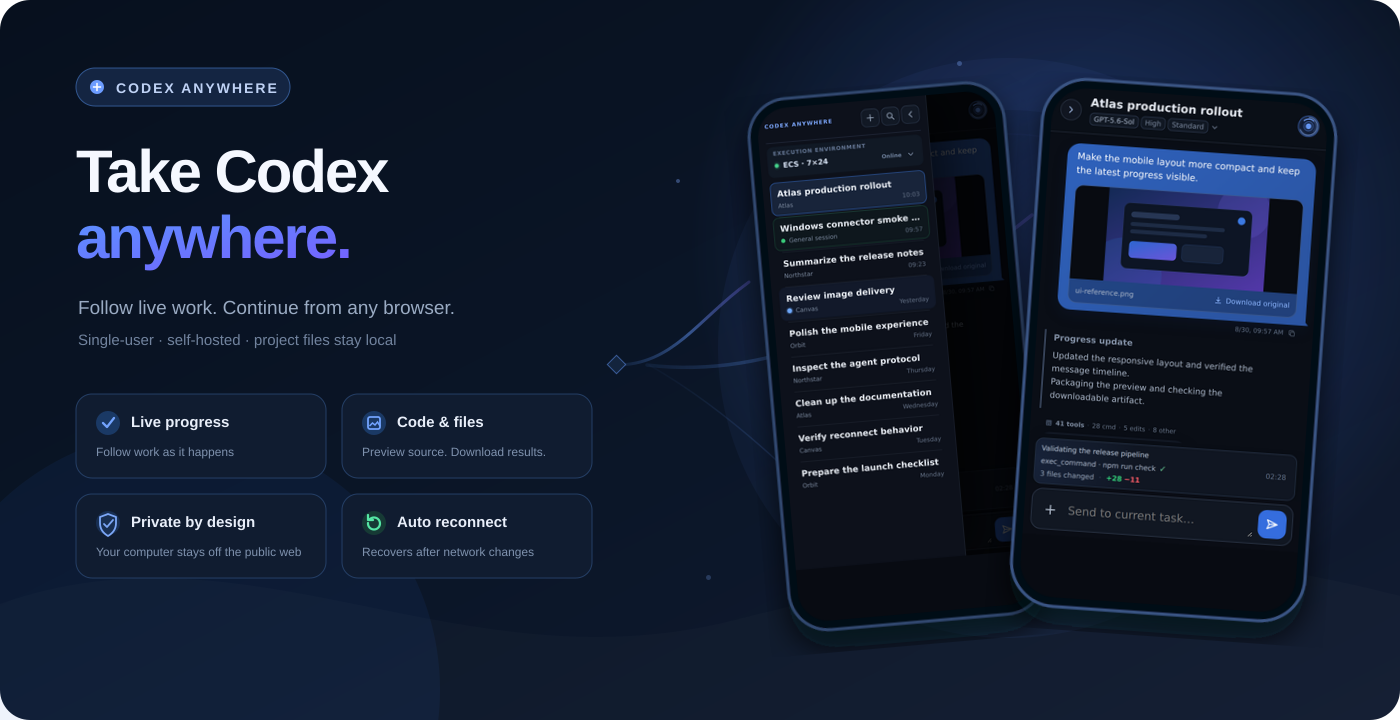
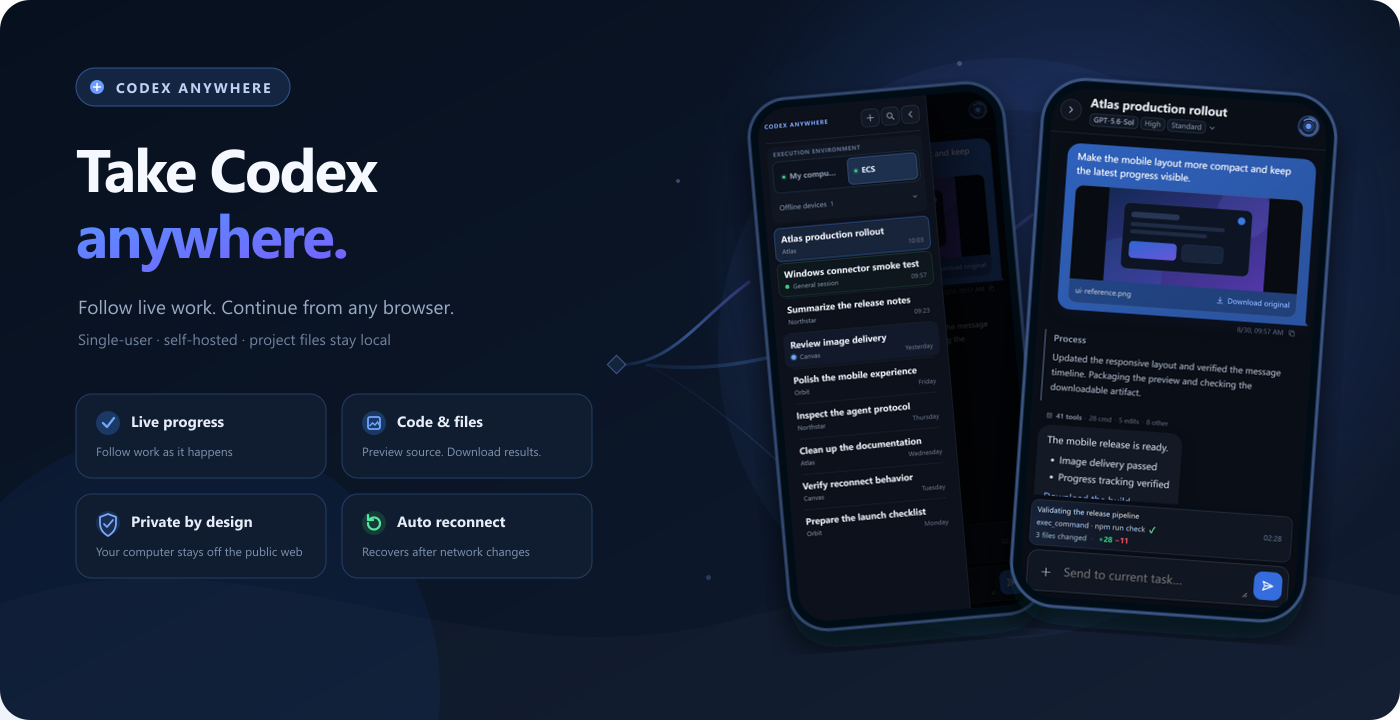
Show direct environment switching for up to two online devices

diff --git a/test/execution-environments.test.ts b/test/execution-environments.test.ts
@@ -1,6 +1,7 @@
 import assert from 'node:assert/strict';
 import test from 'node:test';
-import { createElement } from 'react';
+import { act, createElement } from 'react';
+import { createRoot } from 'react-dom/client';
 import { renderToStaticMarkup } from 'react-dom/server';
 import { parseHTML } from 'linkedom';
 import { EnvironmentSwitcher } from '../web/src/environment-switcher.js';
@@ -41,14 +42,68 @@ test('two environments have direct controls with stable positions and an accessi
   assert.equal(document.querySelector('[aria-haspopup]'), null);
 });
 
-test('larger environment inventories retain an accessible selector for every route', () => {
+test('two online devices stay one-click choices despite additional offline devices', () => {
   const { document } = parseHTML(renderToStaticMarkup(createElement(EnvironmentSwitcher, {
-    value: 'lab', environmentIds: ['ecs', 'personal-pc', 'lab'], onlineEnvironmentIds: ['lab'], onChange: () => {},
+    value: 'lab', environmentIds: ['old-pc', 'ecs', 'personal-pc', 'lab'], onlineEnvironmentIds: ['lab', 'ecs'], onChange: () => {},
+  })));
+  assert.deepEqual([...document.querySelectorAll('.environment-shortcuts strong')].map(node => node.textContent), ['ECS', 'lab']);
+  assert.equal(document.querySelector('[aria-haspopup]'), null);
+  assert.equal(document.querySelector('.environment-offline')!.hasAttribute('open'), false);
+  assert.equal(document.querySelectorAll('.environment-offline-list button').length, 2);
+  assert.equal(document.querySelector('.environment-offline-count')!.textContent, '2');
+});
+
+test('more than two online environments retain an accessible selector', () => {
+  const { document } = parseHTML(renderToStaticMarkup(createElement(EnvironmentSwitcher, {
+    value: 'lab', environmentIds: ['ecs', 'personal-pc', 'lab'], onlineEnvironmentIds: ['lab', 'ecs', 'personal-pc'], onChange: () => {},
   })));
   const trigger = document.querySelector('button[aria-haspopup="listbox"]');
   assert(trigger);
   assert.match(trigger.textContent || '', /lab/);
   assert.equal(trigger.getAttribute('aria-label'), '切换执行环境');
+});
+
+test('presence changes preserve the selected route and direct clicks target only their own device', async () => {
+  const keys = ['window', 'document', 'IS_REACT_ACT_ENVIRONMENT'] as const;
+  const saved = keys.map(key => [key, Object.getOwnPropertyDescriptor(globalThis, key)] as const);
+  const { window, document } = parseHTML('<html><body><div id="root"></div></body></html>');
+  for (const [key, value] of [['window', window], ['document', document], ['IS_REACT_ACT_ENVIRONMENT', true]] as const) {
+    Object.defineProperty(globalThis, key, { configurable: true, value });
+  }
+  const root = createRoot(document.getElementById('root')!);
+  const calls: string[] = [];
+  const render = (onlineEnvironmentIds: string[], value = 'lab') => act(async () => root.render(createElement(EnvironmentSwitcher, {
+    value, environmentIds: ['ecs', 'lab', 'personal-pc'], onlineEnvironmentIds, onChange: id => calls.push(id),
+  })));
+  const click = (selector: string) => act(async () => {
+    document.querySelector(selector)!.dispatchEvent(new window.Event('click', { bubbles: true }));
+  });
+  try {
+    await render(['lab', 'ecs', 'personal-pc']);
+    assert.ok(document.querySelector('[aria-haspopup="listbox"]'));
+    await render(['lab', 'ecs']);
+    await click('.environment-shortcuts button[aria-pressed="true"]');
+    assert.deepEqual(calls, [], 'clicking the current device does not reconnect');
+    await click('.environment-shortcuts button[aria-pressed="false"]');
+    assert.deepEqual(calls, ['ecs']);
+    await render(['ecs']);
+    assert.equal(document.querySelector('.environment-offline')!.hasAttribute('open'), true);
+    assert.equal(document.querySelector('.environment-offline-list [aria-pressed="true"] strong')!.textContent, 'lab');
+    await click('.environment-offline-list button[aria-pressed="false"]');
+    assert.deepEqual(calls, ['ecs', 'personal-pc']);
+    await render(['lab', 'ecs']);
+    assert.equal(document.querySelector('.environment-shortcuts [aria-pressed="true"] strong')!.textContent, 'lab');
+    assert.equal(document.querySelector('.environment-offline')!.hasAttribute('open'), false);
+    await render(['lab', 'ecs', 'personal-pc']);
+    assert.match(document.querySelector('[aria-haspopup="listbox"]')!.textContent!, /lab/);
+    assert.deepEqual(calls, ['ecs', 'personal-pc'], 'presence changes never switch devices automatically');
+  } finally {
+    await act(async () => root.unmount());
+    for (const [key, descriptor] of saved) {
+      if (descriptor) Object.defineProperty(globalThis, key, descriptor);
+      else Reflect.deleteProperty(globalThis, key);
+    }
+  }
 });
 
 test('execution environment inventory is normalized without injecting a phantom PC', () => {
@@ -90,7 +145,12 @@ test('approved offline devices and custom names survive inventories larger than 
   const { document } = parseHTML(renderToStaticMarkup(createElement(EnvironmentSwitcher, {
     value: 'node-39', environmentIds: inventory.ids, labels: inventory.labels, onlineEnvironmentIds: [], onChange: () => {},
   })));
-  assert.match(document.querySelector('button')!.textContent!, /电脑 39/);
+  assert.match(document.querySelector('.environment-empty')!.textContent!, /暂无在线设备/);
+  assert.equal(document.querySelector('[aria-haspopup]'), null);
+  assert.equal(document.querySelector('.environment-offline')!.hasAttribute('open'), true);
+  assert.equal(document.querySelectorAll('.environment-offline-list button').length, 40);
+  assert.match(document.querySelector('.environment-offline summary')!.textContent!, /电脑 39/);
+  assert.match(document.querySelector('[aria-pressed="true"]')!.textContent!, /电脑 39/);
 });
 test('connector-scoped storage migrates the legacy local-computer value only', () => {
   const storage = new MemoryStorage();

diff --git a/web/src/environment-switcher.tsx b/web/src/environment-switcher.tsx
@@ -15,33 +15,54 @@ export function EnvironmentSwitcher({ value, environmentIds, onlineEnvironmentId
   const displayName = (id: string) => environmentDisplayName(id, labels);
   const shortName = (id: string) => environmentShortName(id, labels);
   const online = onlineEnvironmentIds.includes(value);
+  const [offlineExpanded, setOfflineExpanded] = useState(!online);
+  useEffect(() => { setOfflineExpanded(!online); }, [value, online]);
   const options = environmentIds.map(id => ({
     value: id, label: displayName(id),
     description: `${onlineEnvironmentIds.includes(id) ? t('在线', 'Online') : t('离线', 'Offline')} · ${id}`,
     leading: <span className={`environment-status-dot ${onlineEnvironmentIds.includes(id) ? 'online' : 'offline'}`} aria-hidden="true" />,
   }));
   // Keep a stable visual position while connectivity and selection change.
-  const shortcuts = [...environmentIds].sort((a, b) =>
+  const sortedIds = [...environmentIds].sort((a, b) =>
     Number(b === 'personal-pc') - Number(a === 'personal-pc') || a.localeCompare(b));
-  return <div className={`environment-picker${environmentIds.length <= 2 ? ' environment-picker-direct' : ''}`}>
+  const onlineIds = sortedIds.filter(id => onlineEnvironmentIds.includes(id));
+  const direct = onlineIds.length <= 2;
+  // Small inventories keep their positions even when one device disconnects.
+  const shortcuts = environmentIds.length <= 2 ? sortedIds : onlineIds;
+  const offlineIds = sortedIds.filter(id => !shortcuts.includes(id));
+  const renderShortcut = (id: string) => {
+    const available = onlineEnvironmentIds.includes(id);
+    const status = available ? t('在线', 'Online') : t('离线', 'Offline');
+    return <button type="button" key={id} className="environment-shortcut" aria-pressed={value === id}
+      title={`${displayName(id)} · ${status} · ${id}`}
+      onClick={() => { if (id !== value) onChange(id); }}>
+      <span className="environment-shortcut-status"><span className={`environment-status-dot ${available ? 'online' : 'offline'}`} aria-hidden="true" /><span className="visually-hidden">{status}</span></span>
+      <strong>{shortName(id)}</strong>
+    </button>;
+  };
+  return <div className={`environment-picker${direct ? ' environment-picker-direct' : ''}`}>
     <div className="environment-picker-heading">
       <span className="environment-picker-label">{t('执行环境', 'Execution environment')}</span>
       {onRename && environmentIds.includes(value) && <button type="button" className="environment-rename-trigger" disabled={saving}
         aria-label={t('重命名设备', 'Rename device')} title={t('重命名设备', 'Rename device')}
         onClick={() => { setName(displayName(value)); setError(''); setEditing(true); }}><SidebarIcon name="edit" /></button>}
     </div>
-    {environmentIds.length <= 2 ? <div className="environment-shortcuts" role="group" aria-label={t('切换执行环境', 'Switch execution environment')}>
-      {shortcuts.map(id => {
-        const available = onlineEnvironmentIds.includes(id);
-        const status = available ? t('在线', 'Online') : t('离线', 'Offline');
-        return <button type="button" key={id} className="environment-shortcut" aria-pressed={value === id}
-          title={`${displayName(id)} · ${status} · ${id}`}
-          onClick={() => { if (id !== value) onChange(id); }}>
-          <span className="environment-shortcut-status"><span className={`environment-status-dot ${available ? 'online' : 'offline'}`} aria-hidden="true" /><span className="visually-hidden">{status}</span></span>
-          <strong>{shortName(id)}</strong>
-        </button>;
-      })}
-    </div> : <CustomSelect className="environment-picker-select" value={value} options={options} onChange={onChange}
+    {direct ? <>
+      {shortcuts.length > 0 ? <div className="environment-shortcuts" role="group" aria-label={t('切换执行环境', 'Switch execution environment')}>
+        {shortcuts.map(renderShortcut)}
+      </div> : <p className="environment-empty">{t('暂无在线设备', 'No devices online')}</p>}
+      {offlineIds.length > 0 && <details className="environment-offline" open={offlineExpanded}
+        onToggle={event => setOfflineExpanded(event.currentTarget.open)}>
+        <summary>
+          <span>{t('离线设备', 'Offline devices')}<span className="environment-offline-count">{offlineIds.length}</span></span>
+          {!online && <strong title={displayName(value)}>{shortName(value)}</strong>}
+          <svg viewBox="0 0 16 16" aria-hidden="true"><path d="m4 6 4 4 4-4" /></svg>
+        </summary>
+        <div className="environment-offline-list" role="group" aria-label={t('离线设备', 'Offline devices')}>
+          {offlineIds.map(renderShortcut)}
+        </div>
+      </details>}
+    </> : <CustomSelect className="environment-picker-select" value={value} options={options} onChange={onChange}
       ariaLabel={t('切换执行环境', 'Switch execution environment')}
       triggerContent={<>
         <span className={`environment-status-dot ${online ? 'online' : 'offline'}`} aria-hidden="true" />

diff --git a/web/src/styles.scss b/web/src/styles.scss
@@ -242,9 +242,12 @@ input:not([type='range']):focus, textarea:focus { border-color: $focus !importan
   p { color: #efbb78; font-size: 12px; margin: 0; }
 }
 .environment-picker-direct { padding: 7px; gap: 6px; background: #101722; }
-.environment-shortcuts { display: grid; grid-auto-flow: column; grid-auto-columns: minmax(0, 1fr); gap: 5px; }
+.environment-shortcuts {
+  display: grid; grid-auto-flow: column; grid-auto-columns: minmax(0, 1fr); gap: 4px;
+  padding: 3px; border: 1px solid #263247; border-radius: 10px; background: #0c131e;
+}
 .environment-shortcut {
-  min-width: 0; height: 40px; min-height: 40px; display: flex; align-items: center; gap: 7px;
+  min-width: 0; height: 44px; min-height: 44px; display: flex; align-items: center; gap: 7px;
   padding: 0 10px; border: 1px solid transparent; border-radius: 8px;
   color: #8e9cb1; background: transparent; text-align: left;
   strong { @include truncate; font-size: 12px; font-weight: 600; line-height: 1.4; }
@@ -253,6 +256,26 @@ input:not([type='range']):focus, textarea:focus { border-color: $focus !importan
 }
 .environment-shortcut-status { display: flex; align-items: center; flex: 0 0 auto; }
 .environment-shortcut-status .environment-status-dot { width: 5px; height: 5px; flex: 0 0 5px; box-shadow: none; }
+.environment-empty { margin: 0; padding: 12px 6px; color: #8e9cb1; font-size: 12px; }
+.environment-offline {
+  min-width: 0;
+  summary {
+    min-width: 0; min-height: 36px; display: flex; align-items: center; gap: 8px;
+    padding: 0 6px; border-radius: 6px; color: #8797ae; cursor: pointer; list-style: none; font-size: 11px;
+    &::-webkit-details-marker { display: none; }
+    > span { display: flex; align-items: center; gap: 6px; flex: 0 0 auto; }
+    strong { @include truncate; min-width: 0; margin-left: auto; color: #c3d1e5; font-size: 11px; font-weight: 500; }
+    svg { flex: 0 0 12px; width: 12px; height: 12px; margin-left: auto; fill: none; stroke: currentColor; stroke-width: 1.5; }
+    strong + svg { margin-left: 0; }
+    @include interaction.hover { color: #cbd8eb; background: #192334; }
+  }
+  &[open] summary svg { transform: rotate(180deg); }
+}
+.environment-offline-count { color: #73839c; font-size: 10px; font-variant-numeric: tabular-nums; }
+.environment-offline-list {
+  display: grid; gap: 3px; max-height: 144px; overflow-y: auto; overscroll-behavior: contain;
+  padding: 3px; border-top: 1px solid #253044;
+}
 .environment-picker-select .custom-select-trigger {
   height: 25px;
   padding: 0 3px;

diff --git a/web/src/promo-main.tsx b/web/src/promo-main.tsx
@@ -181,7 +181,7 @@ function SessionDrawerPreview() {
             <button className="sidebar-tool mobile-only" type="button" tabIndex={-1}><SidebarIcon name="panel-close" /></button>
           </div>
         </div>
-        <EnvironmentSwitcher value="ecs" environmentIds={['personal-pc', 'ecs']}
+        <EnvironmentSwitcher value="ecs" environmentIds={['personal-pc', 'ecs', 'studio']}
           onlineEnvironmentIds={['personal-pc', 'ecs']} onChange={() => {}} />
         <nav className="session-list">
           {sessions.map((session) => (

diff --git a/docs/deployment.md b/docs/deployment.md
@@ -235,7 +235,7 @@ details on hover or tap; a session that has compacted should keep a compaction m
 For a long session, browse upward once and confirm that the older-history indicator appears, the current
 reading position does not jump, and a failed request offers retry. For a connector-owned test run, open
 the running-status strip and verify that Stop interrupts only that run. Repeat with an isolated Desktop turn: Web must use its confirmed turn ID. Active goals still require Desktop stop, since stopping one turn does not pause a goal.
-With one or two known environments, the sidebar shows direct buttons with separate selection and online states. More environments use the full selector. Switching keeps the drawer open until a session is chosen, restores the last session for that environment, and clears attachment drafts to avoid sending files to the wrong node.
+With at most two online environments, the sidebar shows direct buttons with separate selection and online states, regardless of the total registered count. Additional offline devices remain in an expandable section; selecting an offline device or losing the current connection reveals its selected button without switching environments. Inventories of one or two devices keep both buttons visible even when offline. More than two online environments use the full selector. Switching keeps the drawer open until a session is chosen, restores the last session for that environment, and clears attachment drafts to avoid sending files to the wrong node.
 
 When multiple connectors are approved, open the sidebar, switch execution environments, and confirm that
 the top-bar badge, session list, remembered workspace, and online state change together. Start one harmless
@@ -386,7 +386,7 @@ Operators can also run:
 
 The same identity can reconnect and replace its old socket. Another identity cannot be approved on an occupied route, and approved identities cannot switch routes. For `device_route_conflict` or `device_route_mismatch`, inspect configuration and registrations, choose a separate ID for the new device and request approval again. Do not revoke a needed existing machine to make room. Legacy duplicate routes require an operator to retain the correct identity and revoke conflicting records.
 
-The inventory includes every approved connector, including offline nodes, without the former 24-device truncation. More than two nodes use a dropdown. Revocation updates the list on the next presence broadcast.
+The inventory includes every approved connector, including offline nodes, without the former 24-device truncation. More than two online nodes use a dropdown; otherwise online nodes have direct buttons and additional offline nodes remain in an expandable section. Revocation updates the list on the next presence broadcast.
 
 ## Supported configuration
 

diff --git a/README.md b/README.md
@@ -29,7 +29,7 @@ It does not provide multi-user hosting, a general remote shell or automatic sess
 - **Run sessions concurrently** — different ECS sessions can work at the same time, with independent messages,
   question answers, approvals and stopping. Each session keeps one active turn; text sent during that turn steers it.
 - **Switch execution environments** — connect multiple computers and ECS nodes with unique persistent device IDs and editable names.
-  Approved offline nodes remain visible; two nodes use direct buttons and larger inventories use a selector. The sidebar stays open until you choose a session. Sessions, unread state,
+  Up to two online nodes use direct buttons, even when more devices are registered; additional offline nodes remain accessible in an expandable section. More than two online nodes use a selector. The sidebar stays open until you choose a session. Sessions, unread state,
   recent workspaces, attachments and requests stay scoped to the selected machine.
 - **Continue real sessions** — browse, rename and resume existing Codex sessions, or start a task in a local
   project. Archive idle PC sessions from the title bar and restore them in Codex Desktop; history and project files stay intact. Edit and resend sent user messages by reverting their turn and later conversation, keeping original attachments; executed file changes are not undone. Markdown history opens at the latest page and loads older entries as you browse upward, preserving your position.
